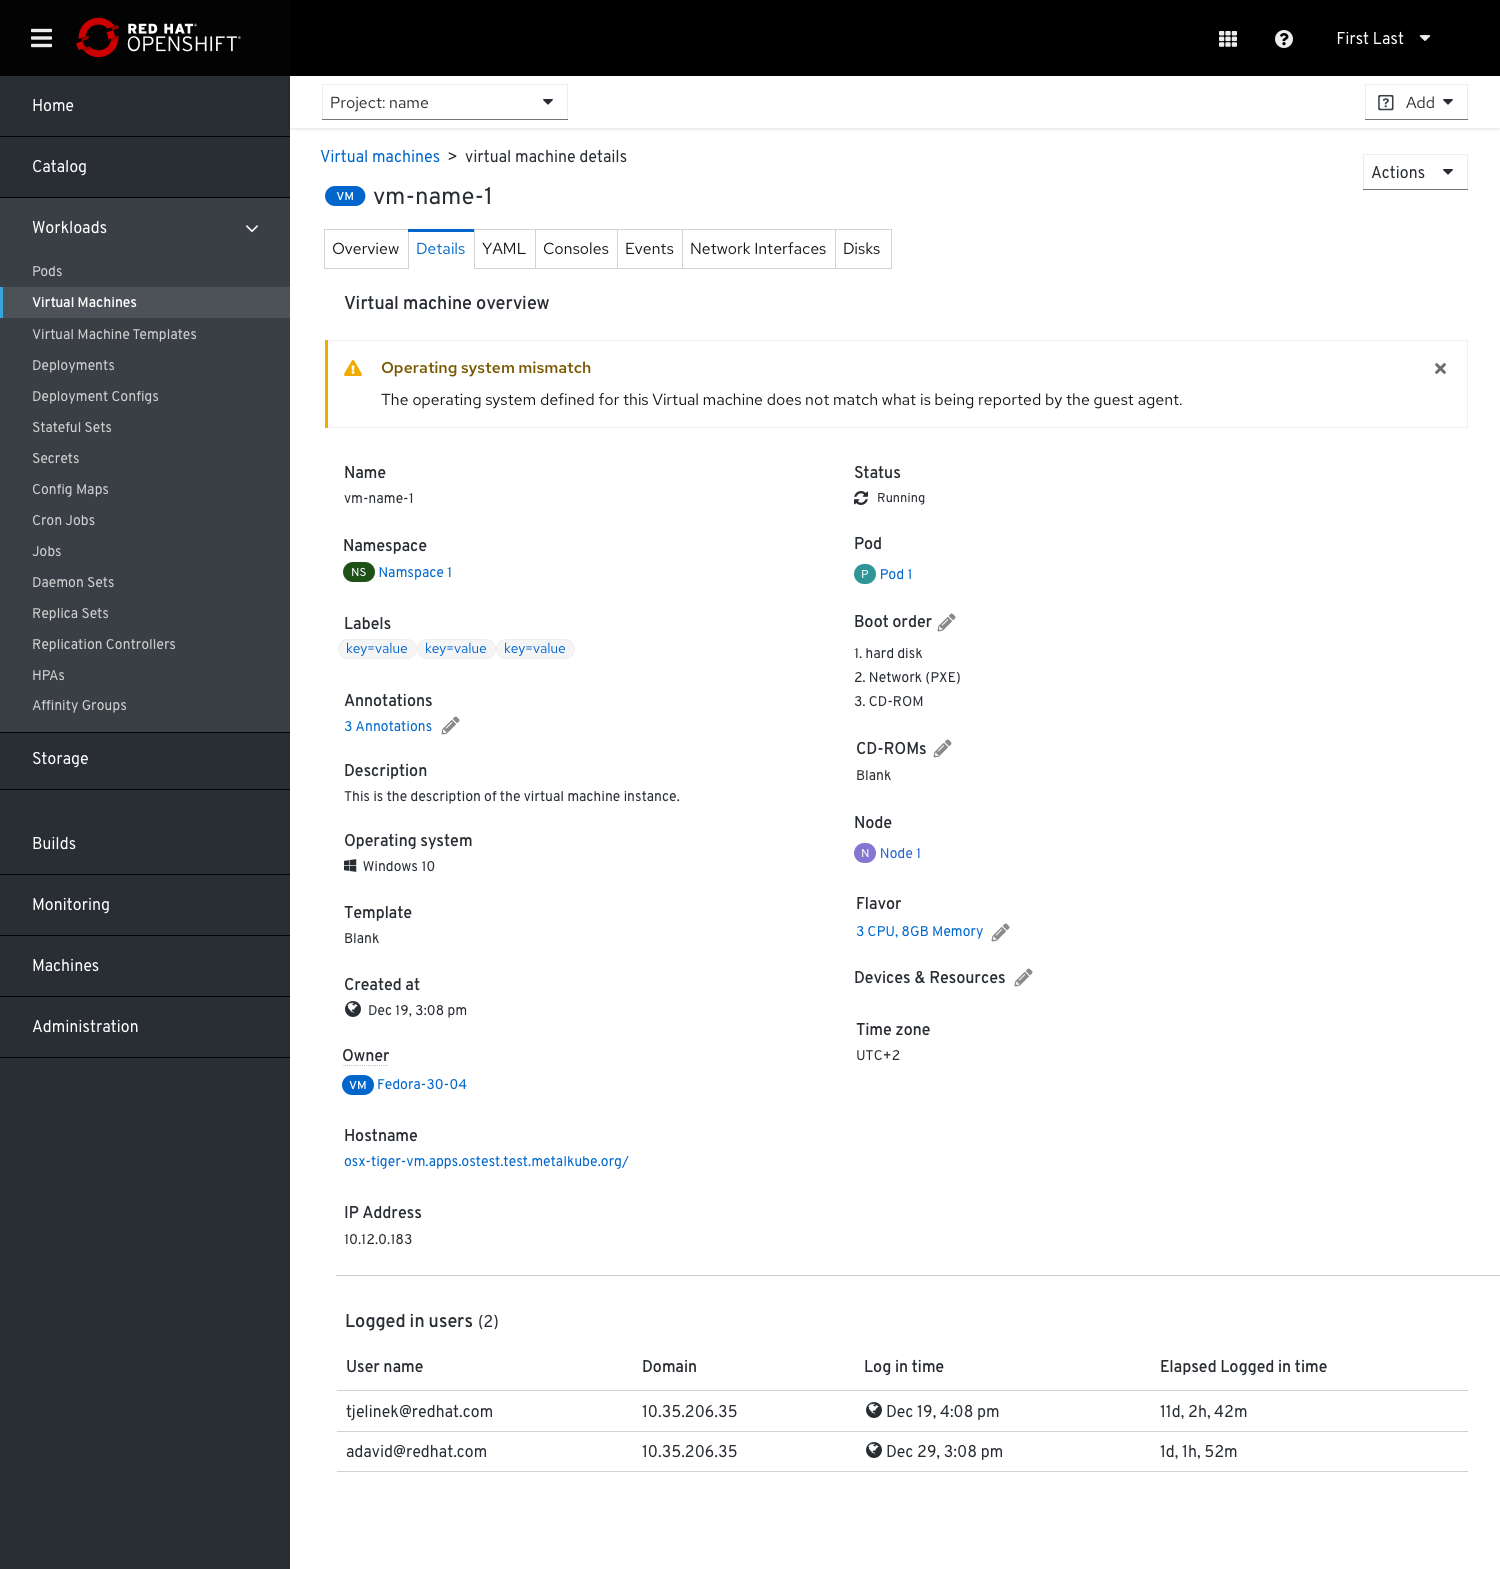
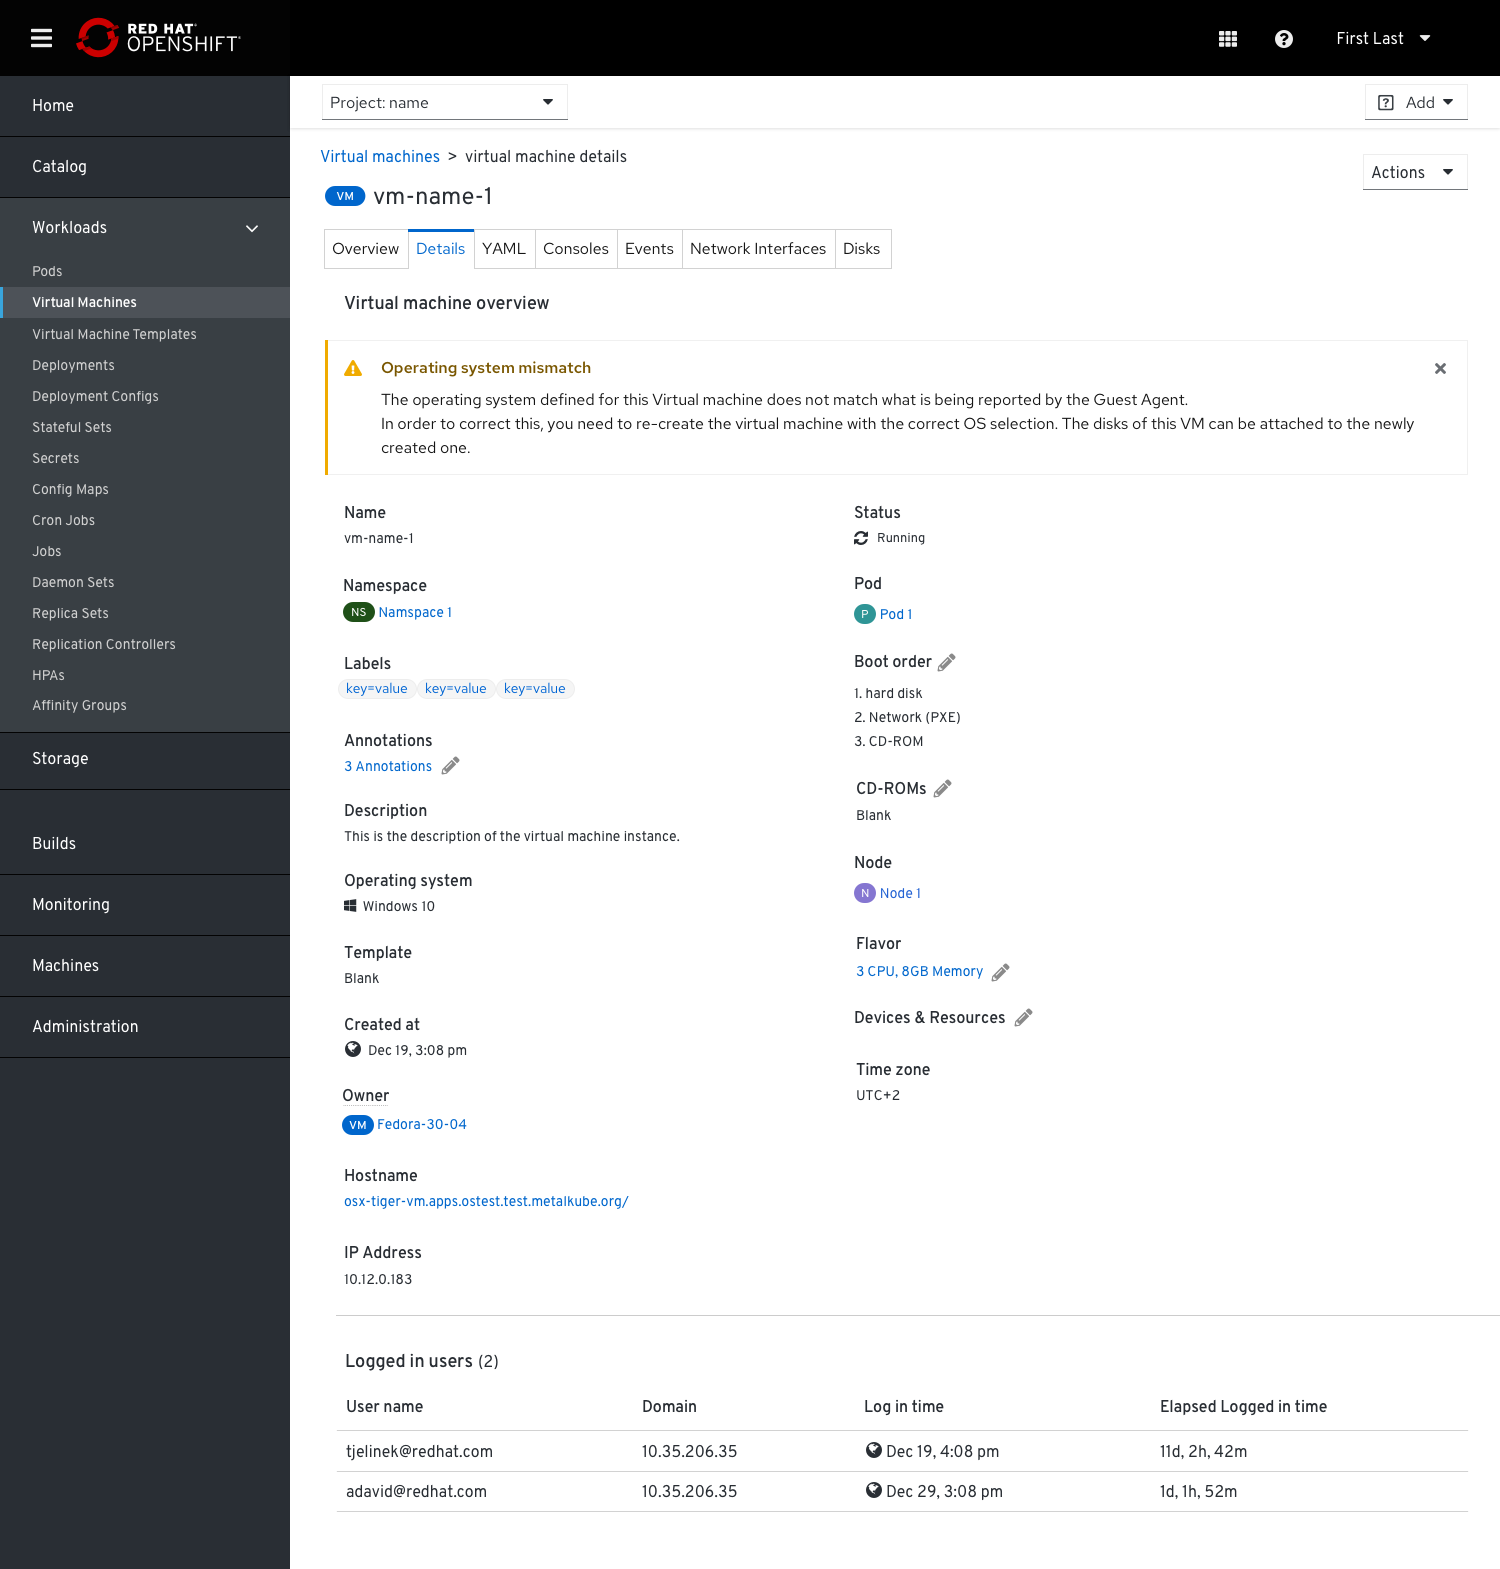
textual change in alert message

diff --git a/designs/virtualization/4.x/expose-guest-data/expose guest data.md b/designs/virtualization/4.x/expose-guest-data/expose guest data.md
@@ -30,8 +30,8 @@ This information is required so that users will be aware when they're about to t
 
 ![Notifying that there are logged in users to that vm](img/Power-off-modal.png)
 
-To simplify the information about OS versions (the Guest Agent and what was suggested by the admin while creating the VM), we can surface only the current OS version that’s installed (the Guest Agent OS).
-In case we have a mismatch between the suggested Operating System version (the OS that the admin originally suggested) and the installed Operating System version, we can show an alert that indicates that mismatch.
+To simplify the information about OS versions (the Guest Agent and what was suggested by the admin while creating the VM), we will surface only the current OS version that’s installed (the Guest Agent OS).
+In case we have a mismatch between the suggested Operating System version (the OS that the admin originally suggested) and the installed Operating System version, we will show an alert that reflects that and offer a solution.
 
 ![notification when mismatch os version between Guest Agent and original](img/vm-overview-GA-not-match.png)
 
@@ -45,7 +45,7 @@ Some additional data related to File systems can be surfaced in the VM’s Disks
 
 - Disk mounts with usage - mount point - where the disk is mounted in the tree
 
-Since there is no 1:1 mapping between the way the disks are seen from the OpenShift virtualization point of view and the way they are seen from the Guest Agent point of view, we’ll show the 2 sets of information in 2 separate tables.
+Since there is no 1:1 mapping between the way the disks are seen from the OpenShift virtualization point of view and the way they are seen from the Guest Agent point of view, we will show the 2 sets of information in 2 separate tables.
 The 'Disks' table will always be shown and the ‘File systems’ table (partitions) will be shown only if the Guest Agent is installed.
 
 In the case the Guest Agent isn't installed and we can provide only the disk table, we will suggest that the Guest Agent can be installed to provide the File system information.
